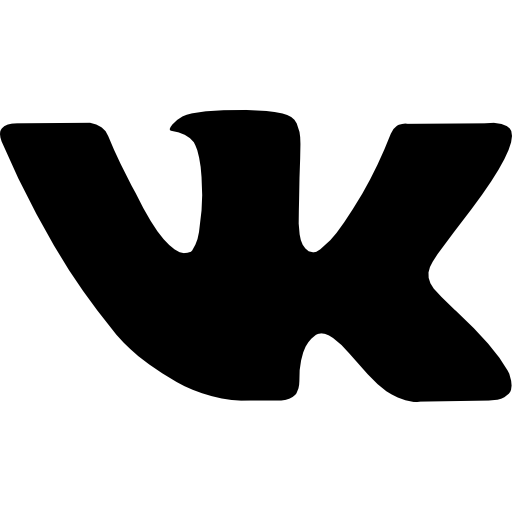
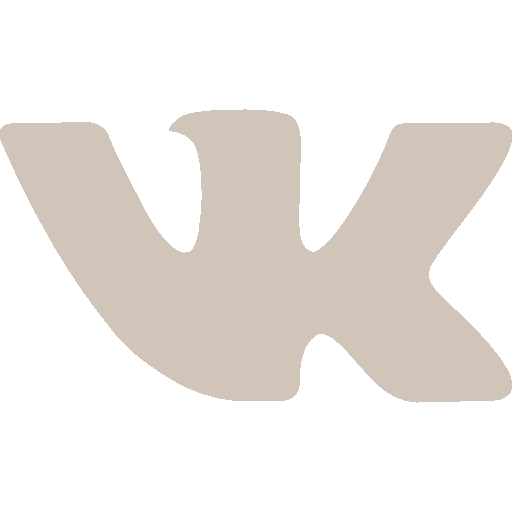
Add files via upload

diff --git a/index.html b/index.html
@@ -159,7 +159,7 @@
            
             <div class="slider">
             
-                <div class="slides" id="bonus" style="display:flex;" onmouseenter="document.getElementById('bonus').getElementsByTagName('img')[0].style.animation = 'showNextCard 0.8s 1';">
+                <div class="slides" id="bonus" style="display:flex;">
                     <div id="slide-1">
                         <img src="/Pictures/card_back.png" alt="задник">
                     </div>
@@ -352,8 +352,17 @@
                     <p>
                         Lorem ipsum, dolor sit amet consectetur adipisicing elit. Dolore tenetur voluptates itaque! Veritatis recusandae, at laborum fuga eligendi natus cupiditate explicabo cumque, autem nemo, sapiente repudiandae. Laudantium minus illo sapiente.
                     </p>
+                    <img src="/Pictures/rules-1.png" alt="начало игры">
                 <br>
                     <div class="title">Порядок ходов</div>
+                    <p>
+                        Lorem ipsum dolor sit, amet consectetur adipisicing elit. Placeat obcaecati impedit necessitatibus? Dicta laboriosam recusandae mollitia saepe nihil repudiandae consectetur voluptatibus nesciunt porro sunt. Eligendi quisquam alias impedit dolorum sint!
+                    </p>
+                    <img src="/Pictures/rules-2.png" alt="отложить в колоду карту своего типа">
+                    <p>
+                        Lorem ipsum dolor sit, amet consectetur adipisicing elit. Placeat obcaecati impedit necessitatibus? Dicta laboriosam recusandae mollitia saepe nihil repudiandae consectetur voluptatibus nesciunt porro sunt. Eligendi quisquam alias impedit dolorum sint!
+                    </p>
+                    <img src="/Pictures/rules-3.png" alt="отложить в колоду карту своего типа">
                     <p>
                         Lorem ipsum dolor sit, amet consectetur adipisicing elit. Placeat obcaecati impedit necessitatibus? Dicta laboriosam recusandae mollitia saepe nihil repudiandae consectetur voluptatibus nesciunt porro sunt. Eligendi quisquam alias impedit dolorum sint!
                     </p>
@@ -405,7 +414,9 @@
 
         <div class="about-content">        
             <label>Благодарности</label>
-            <p class="thanks">Отдельную благодарность выражаю ЭЛЕ за помощь и проверку геймплея и АНДРЕЮ за оперативное участие в проекте !</p>
+            <p class="thanks">Отдельную благодарность выражаю ЭЛЕ за помощь и проверку геймплея и НАСТЕ за оперативное участие в проекте !</p>
+            <br>
+            <p class="thanks" style="color: #28201F; font-size: 0.8rem; margin-bottom: 0;">♥</p>
             
             
             <label style="margin-top: 60px;">Об игре</label>
@@ -446,7 +457,7 @@
                 <br><br> 
                 Спасибо, что мы с тобой остаемся вместе, что бы не случилось !
                 <br><br> 
-                ♥♥♥♥♥
+                <p class="thanks" style="color: #28201F; font-size: 0.8rem; margin-bottom: 0;">♥♥♥♥♥</p>
             </p>
 
         </div>

diff --git a/CSS/about.css b/CSS/about.css
@@ -1,7 +1,7 @@
 #about {
     /* background:  #28201F;
     color: #FFF0EF; */
-    font-size: 0.9em;
+    font-size: 0.6em;
     width: 100%;
     /* height: 200px; */
 }
@@ -9,7 +9,7 @@
 
 #about label{
     font-family: 'Ambidexter';
-    font-size: 2.5em;
+    font-size: 2rem !important;
     margin-bottom: 40px;
 }
 
@@ -17,7 +17,7 @@
     width: 80%;
     display: flex;
     font-family: 'Ambidexter';
-    font-size: 1.8em;
+    font-size: 2.5em;
     text-align: left;
     letter-spacing: 0.07em;
 
@@ -44,15 +44,18 @@
     text-align: left;
     align-items: center;
     margin-bottom: 20px;
+
+    font-size: 1em;
 }
 
 #about p.thanks{
     width: 80%;
     letter-spacing: 0.1em;
-    color: #28201F;
+    color: #9e724f;
     display: flex;
     justify-content: center;
     text-align: center;
     align-items: center;
     margin-bottom: 0;
+    font-size: 1.2em;
 }

diff --git a/CSS/queue.css b/CSS/queue.css
@@ -38,7 +38,7 @@
     font-family: 'Ambidexter';
     text-align: right;
     width: 30%;
-    font-size: 1.5em;
+    font-size: 1.3em;
     /* background: #9e724f; */
     padding: 10px;
     margin-right: 30px;
@@ -49,7 +49,7 @@
     width: 70%;
     padding: 10px;
     /* background: #fff; */
-    font-size: 1em;
+    font-size: 0.8em;
     font-family: 'Pixel';
     margin-top: 0;
     text-transform: uppercase;
@@ -59,8 +59,8 @@
 
 #queue p{
 display: none;
-margin: 0 15%;
-font-size: 0.9em;
+margin: 0 10%;
+font-size: 0.7em;
 }
 
 #queue button {

diff --git a/CSS/menu.css b/CSS/menu.css
@@ -79,7 +79,7 @@ menu ul li a.active{
     font-family: 'Pixel';
     /* letter-spacing: 2px; */
     text-transform: uppercase;
-    font-size: 0.75em;
+    font-size: 0.7em;
     
     margin-top: 5px;
     color:#FFF0EF;
@@ -130,10 +130,10 @@ menu img{
     cursor: pointer;
 }
 
-#theme:hover{
-    /* background: #9e724f;
-    transition: cubic-bezier(0.19, 1, 0.22, 1) 2s; */
-}
+/* #theme:hover{
+background: #9e724f;
+    transition: cubic-bezier(0.19, 1, 0.22, 1) 2s;
+} */
 
 /* menu img{
     max-width: 100%;

diff --git a/CSS/cube.css b/CSS/cube.css
@@ -43,6 +43,7 @@
 
 #cube .table .colomn-text{
     width: 70%;
+    font-size: 0.7em !important;
     display: flex;
     flex-direction: column;
     justify-content: center;
@@ -52,8 +53,9 @@
 
 #cube p {
     display: flex;
+    width: 100%;
     flex-direction: row;
-    justify-content: center;
+    justify-content: flex-start;
     align-items: center;
 
     margin: 10px;

diff --git a/CSS/rules.css b/CSS/rules.css
@@ -35,7 +35,7 @@
     width: 90%;
     display: flex;
     font-family: 'Ambidexter';
-    font-size: 1.8em;
+    font-size: 1.5em;
     text-align: left;
     letter-spacing: 0.07em;
 
@@ -44,5 +44,10 @@
 
 .rules-text p{
     width: 90%;
-    font-size: 0.9em;
+    font-size: 0.6em;
+}
+
+.rules img{
+    width: 90%;
+    margin: 20px 0;
 }

diff --git a/CSS/footer.css b/CSS/footer.css
@@ -1,7 +1,7 @@
 footer {
     background:  #28201F;
     color: #FFF0EF;
-    font-size: 0.7em;
+    font-size: 0.6em;
     width: 100%;
     /* height: 200px; */
 }
@@ -46,6 +46,3 @@ footer a{
     margin-right: 20px;
 }
 
-footer img{
-    filter: invert(1);
-}

diff --git a/JS/points_menu.js b/JS/points_menu.js
@@ -11,7 +11,6 @@ console.log(number);
 
 changeCards(who, number);
 
-
 function changeCards($who, $number){
 
     var card_block = document.getElementsByClassName('slides');

diff --git a/CSS/cards.css b/CSS/cards.css
@@ -216,6 +216,6 @@
   }
 }
 
-/* #bonus img{
+#bonus img{
   animation: showNextCard 0.8s 1;
-} */
+}
